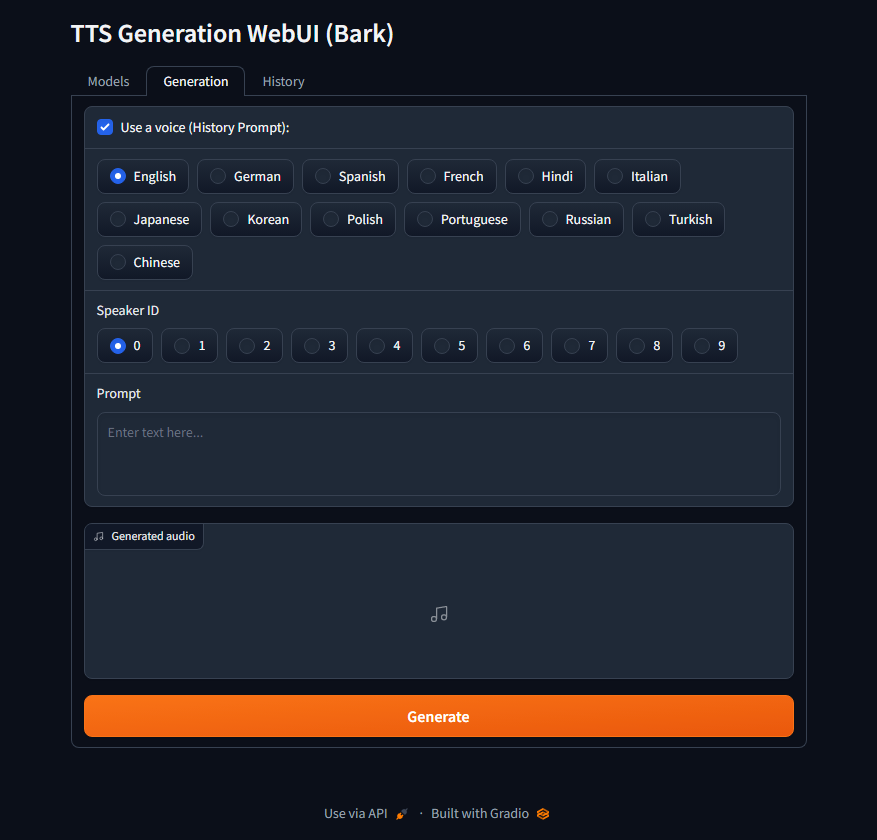
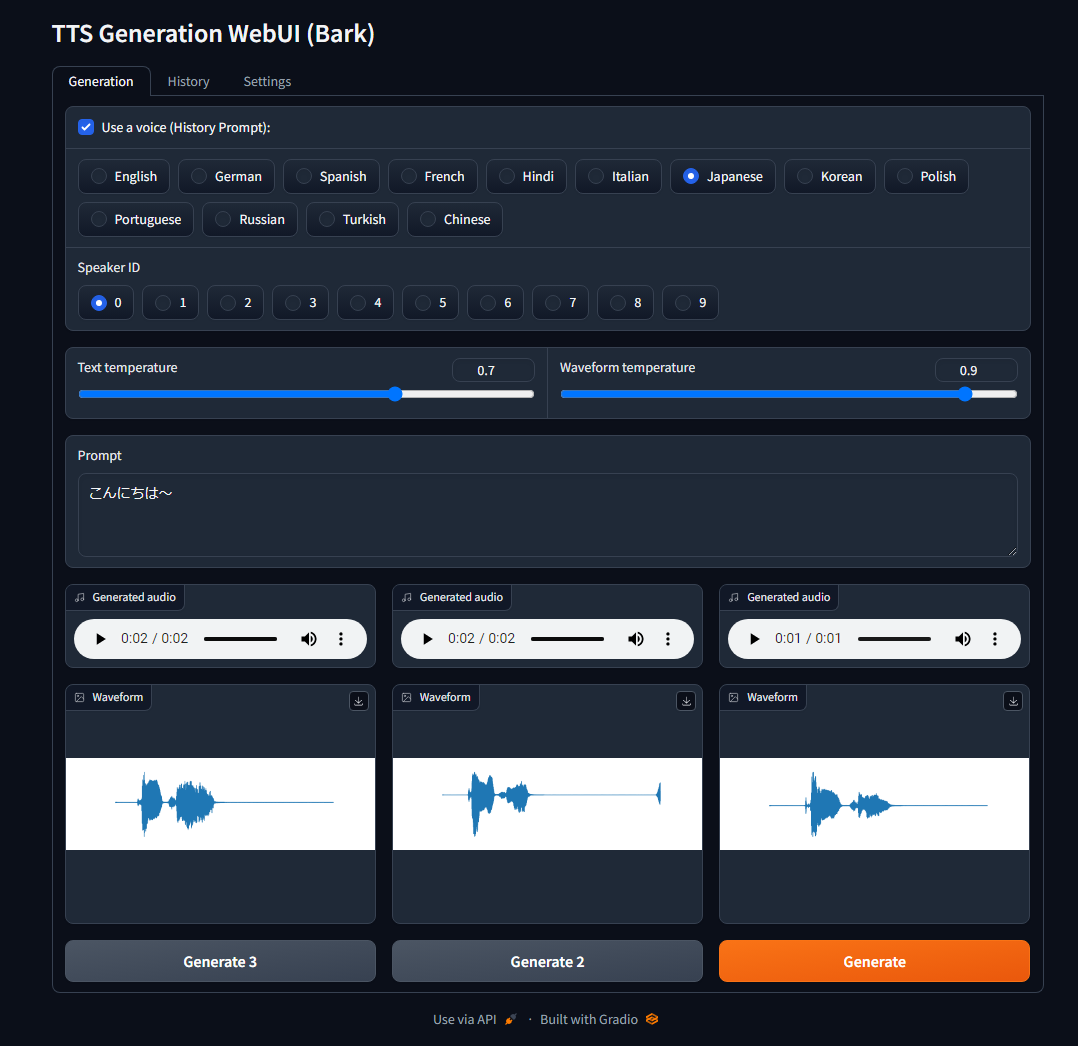
fix environment variable settings, multi generation

diff --git a/server.py b/server.py
@@ -1,3 +1,6 @@
+import dotenv_init
+import matplotlib
+import matplotlib.pyplot as plt
 import gradio as gr
 from models.bark.bark.generation import SUPPORTED_LANGS, preload_models
 from scipy.io.wavfile import write as write_wav
@@ -6,10 +9,9 @@ import json
 import os
 import glob
 import datetime
-from dotenv import load_dotenv
-load_dotenv()
 
-
+dotenv_init.init()
+matplotlib.use('agg')
 config = None
 
 
@@ -35,8 +37,16 @@ def setup_or_recover():
     if not os.path.exists('.env'):
         print("Env file not found. Creating default env.")
         with open('.env', 'w') as outfile:
-            outfile.write(
-                "SUNO_USE_SMALL_MODELS=False\nSUNO_ENABLE_MPS=False\nSUNO_OFFLOAD_CPU=False\n")
+            outfile.write(f"""
+# Due to implementation, only empty string is False,
+#  everything else is True
+# Duplicates small models checkboxes
+SUNO_USE_SMALL_MODELS=
+# Use MPS when CUDA is unavailable
+SUNO_ENABLE_MPS=
+# Offload GPU models to CPU
+SUNO_OFFLOAD_CPU=
+""")
 
 
 setup_or_recover()
@@ -75,7 +85,12 @@ def save_config(text_use_gpu,
     return "Saved: " + str(config)
 
 
+are_models_loaded = False
+
+
 def reload_models():
+    global are_models_loaded
+    are_models_loaded = True
     preload_models(
         text_use_gpu=config["model"]["text_use_gpu"],
         text_use_small=config["model"]["text_use_small"],
@@ -118,23 +133,61 @@ def open_outputs_folder():
     os.startfile("outputs")
 
 
-def generate(prompt, useHistory, language=None, speaker_id=0):
-    # generate audio from text
-    history_prompt = None if not useHistory else f"{SUPPORTED_LANGS[language][1]}_speaker_{speaker_id}"
+def generate(prompt, useHistory, language=None, speaker_id=0, text_temp=0.7, waveform_temp=0.7):
+    if not are_models_loaded:
+        reload_models()
 
-    print("Generating:", prompt, "history_prompt:", history_prompt)
-    audio_array = generate_audio(prompt, history_prompt=history_prompt)
+    # generate audio from text
+    history_prompt = f"{SUPPORTED_LANGS[language][1]}_speaker_{speaker_id}" if useHistory else None
+
+    print("Generating:", prompt, "history_prompt:", history_prompt, "text_temp:", text_temp, "waveform_temp:", waveform_temp)
+    audio_array = generate_audio(prompt, history_prompt=history_prompt, text_temp=text_temp, waveform_temp=waveform_temp)
 
     # get current date for file
     now = datetime.datetime.now()
     date = now.strftime("%Y-%m-%d_%H-%M-%S")
 
+    base_filename = f"outputs/audio__{history_prompt}__{date}"
     # To save audio_array as a WAV file:
-    filename = f"outputs/audio_{history_prompt}_{date}.wav"
+    filename = f"{base_filename}.wav"
     # See if metadata can be added to the file
     write_wav(filename, SAMPLE_RATE, audio_array)
-    return filename
+    # Plot the waveform using matplotlib
+    plt.figure(figsize=(10, 3))
+    plt.plot(audio_array)
+    plt.axis("off")
+    # Return the plot as an image
+    filename_png = f"{base_filename}.png"
+    plt.savefig(filename_png)
 
+    # Generate metadata for the audio file
+    metadata = {
+        "prompt": prompt,
+        "language": SUPPORTED_LANGS[language][0] if useHistory else None,
+        "speaker_id": speaker_id if useHistory else None,
+        "history_prompt": history_prompt,
+        "text_temp": text_temp,
+        "waveform_temp": waveform_temp,
+        "date": date,
+        "filename": filename,
+        "filename_png": filename_png,
+    }
+    # Write metadata to txt file
+    with open(f"{base_filename}.json", "w") as outfile:
+        json.dump(metadata, outfile, indent=2)
+
+    return [filename, filename_png]
+
+
+def generate_multi(count=1):
+    def gen(prompt, useHistory, language=None, speaker_id=0, text_temp=0.7, waveform_temp=0.7):
+        filenames = []
+        for i in range(count):
+            filename, filename_png = generate(prompt, useHistory, language, speaker_id, text_temp=text_temp, waveform_temp=waveform_temp)
+            filenames.append(filename)
+            filenames.append(filename_png)
+        return filenames
+    return gen
 
 def test():
     text_prompt = """
@@ -174,6 +227,10 @@ with gr.Blocks() as block:
         useHistory.change(fn=toggleHistory, inputs=[useHistory], outputs=[
             languageRadio, speakerIdRadio])
 
+        with gr.Row():
+            text_temp = gr.Slider(label="Text temperature", value=0.7, minimum=0.0, maximum=1.0, step=0.1)
+            waveform_temp = gr.Slider(label="Waveform temperature", value=0.7, minimum=0.0, maximum=1.0, step=0.1)
+
         prompt = gr.Textbox(label="Prompt", lines=3,
                             placeholder="Enter text here...")
 
@@ -181,9 +238,25 @@ with gr.Blocks() as block:
             prompt,
             useHistory,
             languageRadio,
-            speakerIdRadio
+            speakerIdRadio,
+            text_temp,
+            waveform_temp
         ]
-        outputs = gr.Audio(type="filepath", label="Generated audio")
+        with gr.Row():
+            audio_1 = gr.Audio(type="filepath", label="Generated audio")
+            audio_2 = gr.Audio(
+                type="filepath", label="Generated audio", visible=False)
+            audio_3 = gr.Audio(
+                type="filepath", label="Generated audio", visible=False)
+
+        with gr.Row():
+            image_1 = gr.Image(label="Waveform")
+            image_2 = gr.Image(label="Waveform", visible=False)
+            image_3 = gr.Image(label="Waveform", visible=False)
+
+        outputs = [audio_1, image_1]
+        outputs2 = [audio_2, image_2]
+        outputs3 = [audio_3, image_3]
         examples = [
             ["The quick brown fox jumps over the lazy dog."],
             ["To be or not to be, that is the question."],
@@ -192,10 +265,33 @@ with gr.Blocks() as block:
                 True, "English", "0"],
         ]
 
-        generate_button = gr.Button("Generate", variant="primary")
+        with gr.Row():
+            generate3_button = gr.Button("Generate 3")
+            generate2_button = gr.Button("Generate 2")
+            generate1_button = gr.Button("Generate", variant="primary")
 
         prompt.submit(fn=generate, inputs=inputs, outputs=outputs)
-        generate_button.click(fn=generate, inputs=inputs, outputs=outputs)
+        generate1_button.click(fn=generate, inputs=inputs, outputs=outputs)
+        generate2_button.click(fn=generate_multi(2), inputs=inputs,
+                               outputs=outputs + outputs2)
+        generate3_button.click(fn=generate_multi(3), inputs=inputs,
+                               outputs=outputs + outputs2 + outputs3)
+
+        def show_closure(count):
+            def show():
+                return [
+                    gr.Audio.update(visible=True),
+                    gr.Image.update(visible=True),
+                    gr.Audio.update(visible=count > 1),
+                    gr.Image.update(visible=count > 1),
+                    gr.Audio.update(visible=count > 2),
+                    gr.Image.update(visible=count > 2),
+                ]
+            return show
+
+        generate1_button.click(fn=show_closure(1), outputs=outputs + outputs2 + outputs3)
+        generate2_button.click(fn=show_closure(2), outputs=outputs + outputs2 + outputs3)
+        generate3_button.click(fn=show_closure(3), outputs=outputs + outputs2 + outputs3)
 
     with gr.Tab("History") as history_tab:
 
@@ -216,15 +312,21 @@ with gr.Blocks() as block:
                                   samples=get_wav_files(), label="History", samples_per_page=20)
         history_audio = gr.Audio(
             visible=True, type="filepath", label="History")
+        history_image = gr.Image()
+        history_json = gr.JSON()
 
         def select_audio(selection):
-            print("selection", selection)
-            print("wav_file_list", wav_file_list)
             filename = wav_file_list[selection]
-            return gr.Audio.update(value=filename, label=filename)
+            with open(filename.replace(".wav", ".json")) as f:
+                json_text = json.load(f)
+            return [
+                gr.Audio.update(value=filename, label=filename),
+                gr.Image.update(value=filename.replace(".wav", ".png")),
+                gr.JSON.update(value=json_text),
+            ]
 
         history_list.select(fn=select_audio, inputs=[history_list], outputs=[
-                            history_audio], preprocess=False)
+                            history_audio, history_image, history_json], preprocess=False)
 
         def update_history_tab():
             return gr.Dataset.update(samples=get_wav_files())
@@ -256,9 +358,12 @@ with gr.Blocks() as block:
                     ## Environment variables
                     (Requires restart)
                 """)
-                ENV_SMALL_MODELS = os.environ.get("SUNO_USE_SMALL_MODELS", "").lower() in ("true", "1")
-                ENV_ENABLE_MPS = os.environ.get("SUNO_ENABLE_MPS", "").lower() in ("true", "1")
-                ENV_OFFLOAD_CPU = os.environ.get("SUNO_OFFLOAD_CPU", "").lower() in ("true", "1")
+                ENV_SMALL_MODELS = os.environ.get(
+                    "SUNO_USE_SMALL_MODELS", "").lower() in ("true", "1")
+                ENV_ENABLE_MPS = os.environ.get(
+                    "SUNO_ENABLE_MPS", "").lower() in ("true", "1")
+                ENV_OFFLOAD_CPU = os.environ.get(
+                    "SUNO_OFFLOAD_CPU", "").lower() in ("true", "1")
                 environment_suno_use_small_models = gr.Checkbox(
                     label="Use small models", value=ENV_SMALL_MODELS)
 
@@ -284,9 +389,14 @@ with gr.Blocks() as block:
                         environment_suno_offload_cpu)
                     with open('.env', 'w') as outfile:
                         outfile.write(f"""
-                            SUNO_USE_SMALL_MODELS={environment_suno_use_small_models}  # Duplicates small models checkboxes
-                            SUNO_ENABLE_MPS={environment_suno_enable_mps}  # Use MPS when CUDA is unavailable
-                            SUNO_OFFLOAD_CPU={environment_suno_offload_cpu}  # Offload GPU models to CPU
+# Due to implementation, only empty string is False,
+#  everything else is True
+# Duplicates small models checkboxes
+SUNO_USE_SMALL_MODELS={"" if not environment_suno_use_small_models else environment_suno_use_small_models}
+# Use MPS when CUDA is unavailable
+SUNO_ENABLE_MPS={"" if not environment_suno_enable_mps else environment_suno_enable_mps}
+# Offload GPU models to CPU
+SUNO_OFFLOAD_CPU={"" if not environment_suno_offload_cpu else environment_suno_offload_cpu}
                         """)
                     os._exit(0)
 
@@ -336,8 +446,6 @@ with gr.Blocks() as block:
                 def set_to_reload():
                     return gr.Button.update(value="Loading...", interactive=False)
 
-
-
             with gr.Column():
                 gr.Markdown(
                     """
@@ -347,7 +455,7 @@ with gr.Blocks() as block:
                     For VRAM < 4GB, use CPU offloading (requires restart).
                 """
                 )
-                
+
                 load_button = gr.Button(
                     value="Reload models" if config["load_models_on_startup"] else "Load models")
 

diff --git a/dotenv_init.py b/dotenv_init.py
@@ -1,0 +1,6 @@
+from dotenv import load_dotenv
+load_dotenv()
+
+
+def init():
+    pass

diff --git a/README.md b/README.md
@@ -7,7 +7,7 @@ This code provides a Gradio interface for generating audio from text input using
 
 ![Screenshot_generation_tab](./screenshots/generation_tab.png)
 ![Screenshot_history_tab](./screenshots/history_tab.png)
-![Screenshot_models_tab](./screenshots/models_tab.png)
+![Screenshot_settings_tab](./screenshots/settings_tab.png)
 
 ## Dependencies
 
